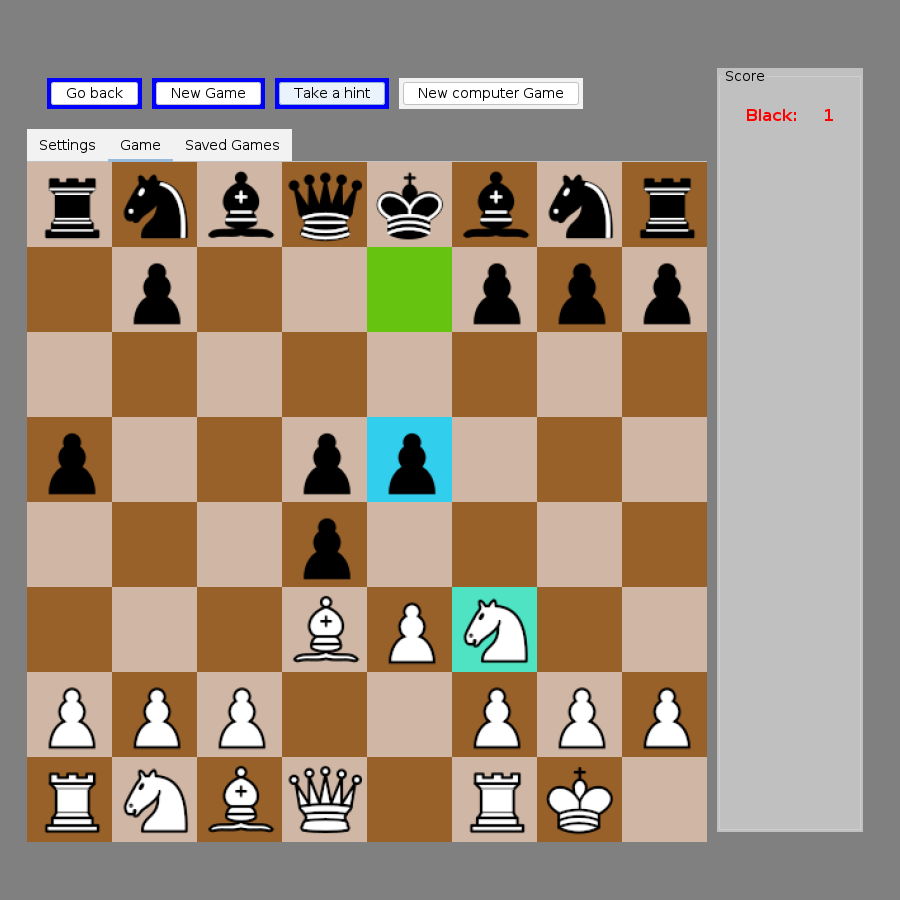
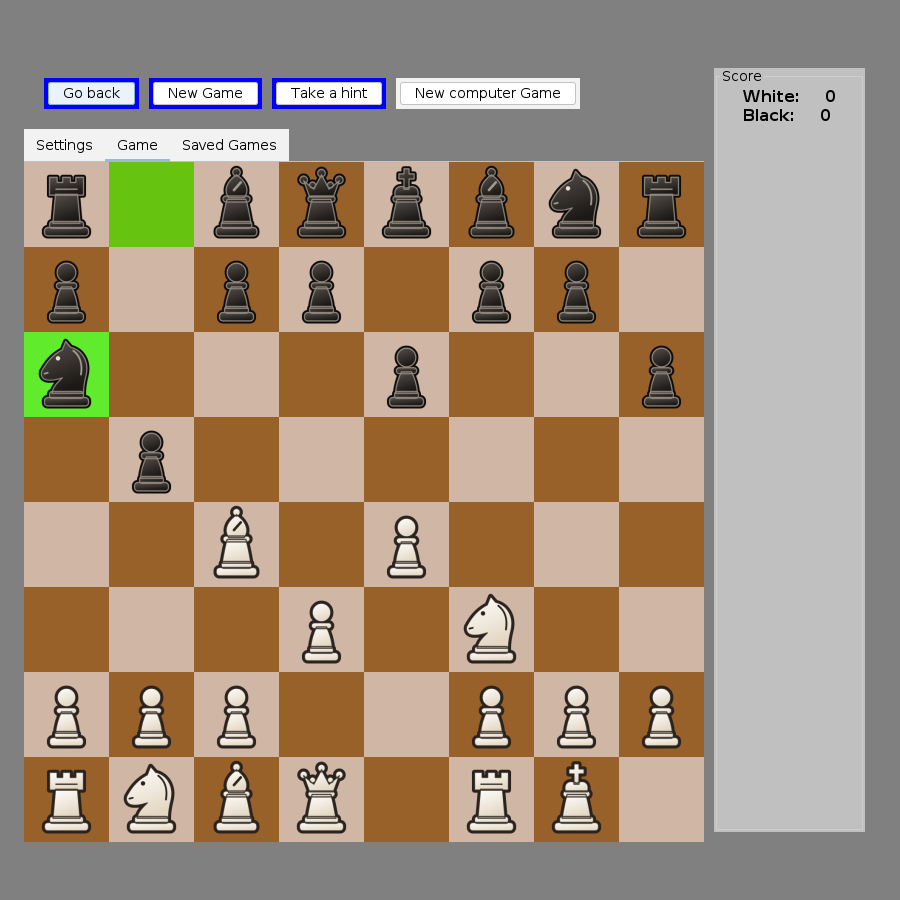
Replace the piece set with original artwork
The previous pieces.png came from a third-party source. The new set is drawn
from scratch; its SVG source lives in docs/art/pieces.svg. The README
screenshot is retaken with the new pieces.

Claude-Session: https://claude.ai/code/session_01JYtsWigqWrDTAcmhiFqHmt

Changed region(s): [[0.0, 0.0622, 0.8711, 0.9333], [0.0311, 0.0933, 0.6533, 0.1244], [0.9022, 0.0933, 0.9333, 0.1244]]

diff --git a/README.md b/README.md
@@ -3,7 +3,7 @@
 A desktop chess game in Java with its own bitboard engine: legal move generation, alpha-beta
 search and a hand-tuned evaluation. Stockfish can optionally take over the top difficulty levels.
 
-![IzikStar Chess: the game board after 1.d4 2.Nf3 3.e3 4.Bd3 5.O-O, with the engine's last move and a hint highlighted](docs/images/screenshot.png)
+![IzikStar Chess: a game against the built-in engine after White castles, with the engine's last move highlighted](docs/images/screenshot.png)
 
 *The board mid-game. Green marks the engine's last move (...e5). Cyan is a hint the player
 asked for (Nxe5).*
@@ -223,11 +223,13 @@ On Linux, `sudo apt install stockfish` installs it at `/usr/games/stockfish`.
 
 ## License
 
-MIT, see [LICENSE](LICENSE). The license covers the source code only.
+MIT, see [LICENSE](LICENSE).
 
-The piece images (`src/main/resources/pieces.png`) and the sound effects
-(`src/main/resources/sounds/`) are third-party assets collected for a learning project. They
-are not covered by the MIT license, and their original authors keep their rights. If you are an
-author and want an asset credited or removed, please open an issue.
+The chess piece set is original artwork drawn for this project; its vector source is
+[`docs/art/pieces.svg`](docs/art/pieces.svg) and it is covered by the same MIT license.
+
+The sound effects (`src/main/resources/sounds/`) are third-party assets collected for a learning
+project. They are not covered by the MIT license, and their original authors keep their rights.
+If you are an author and want a sound credited or removed, please open an issue.
 
 Stockfish is a separate project licensed under the GPLv3 and is not distributed here.
